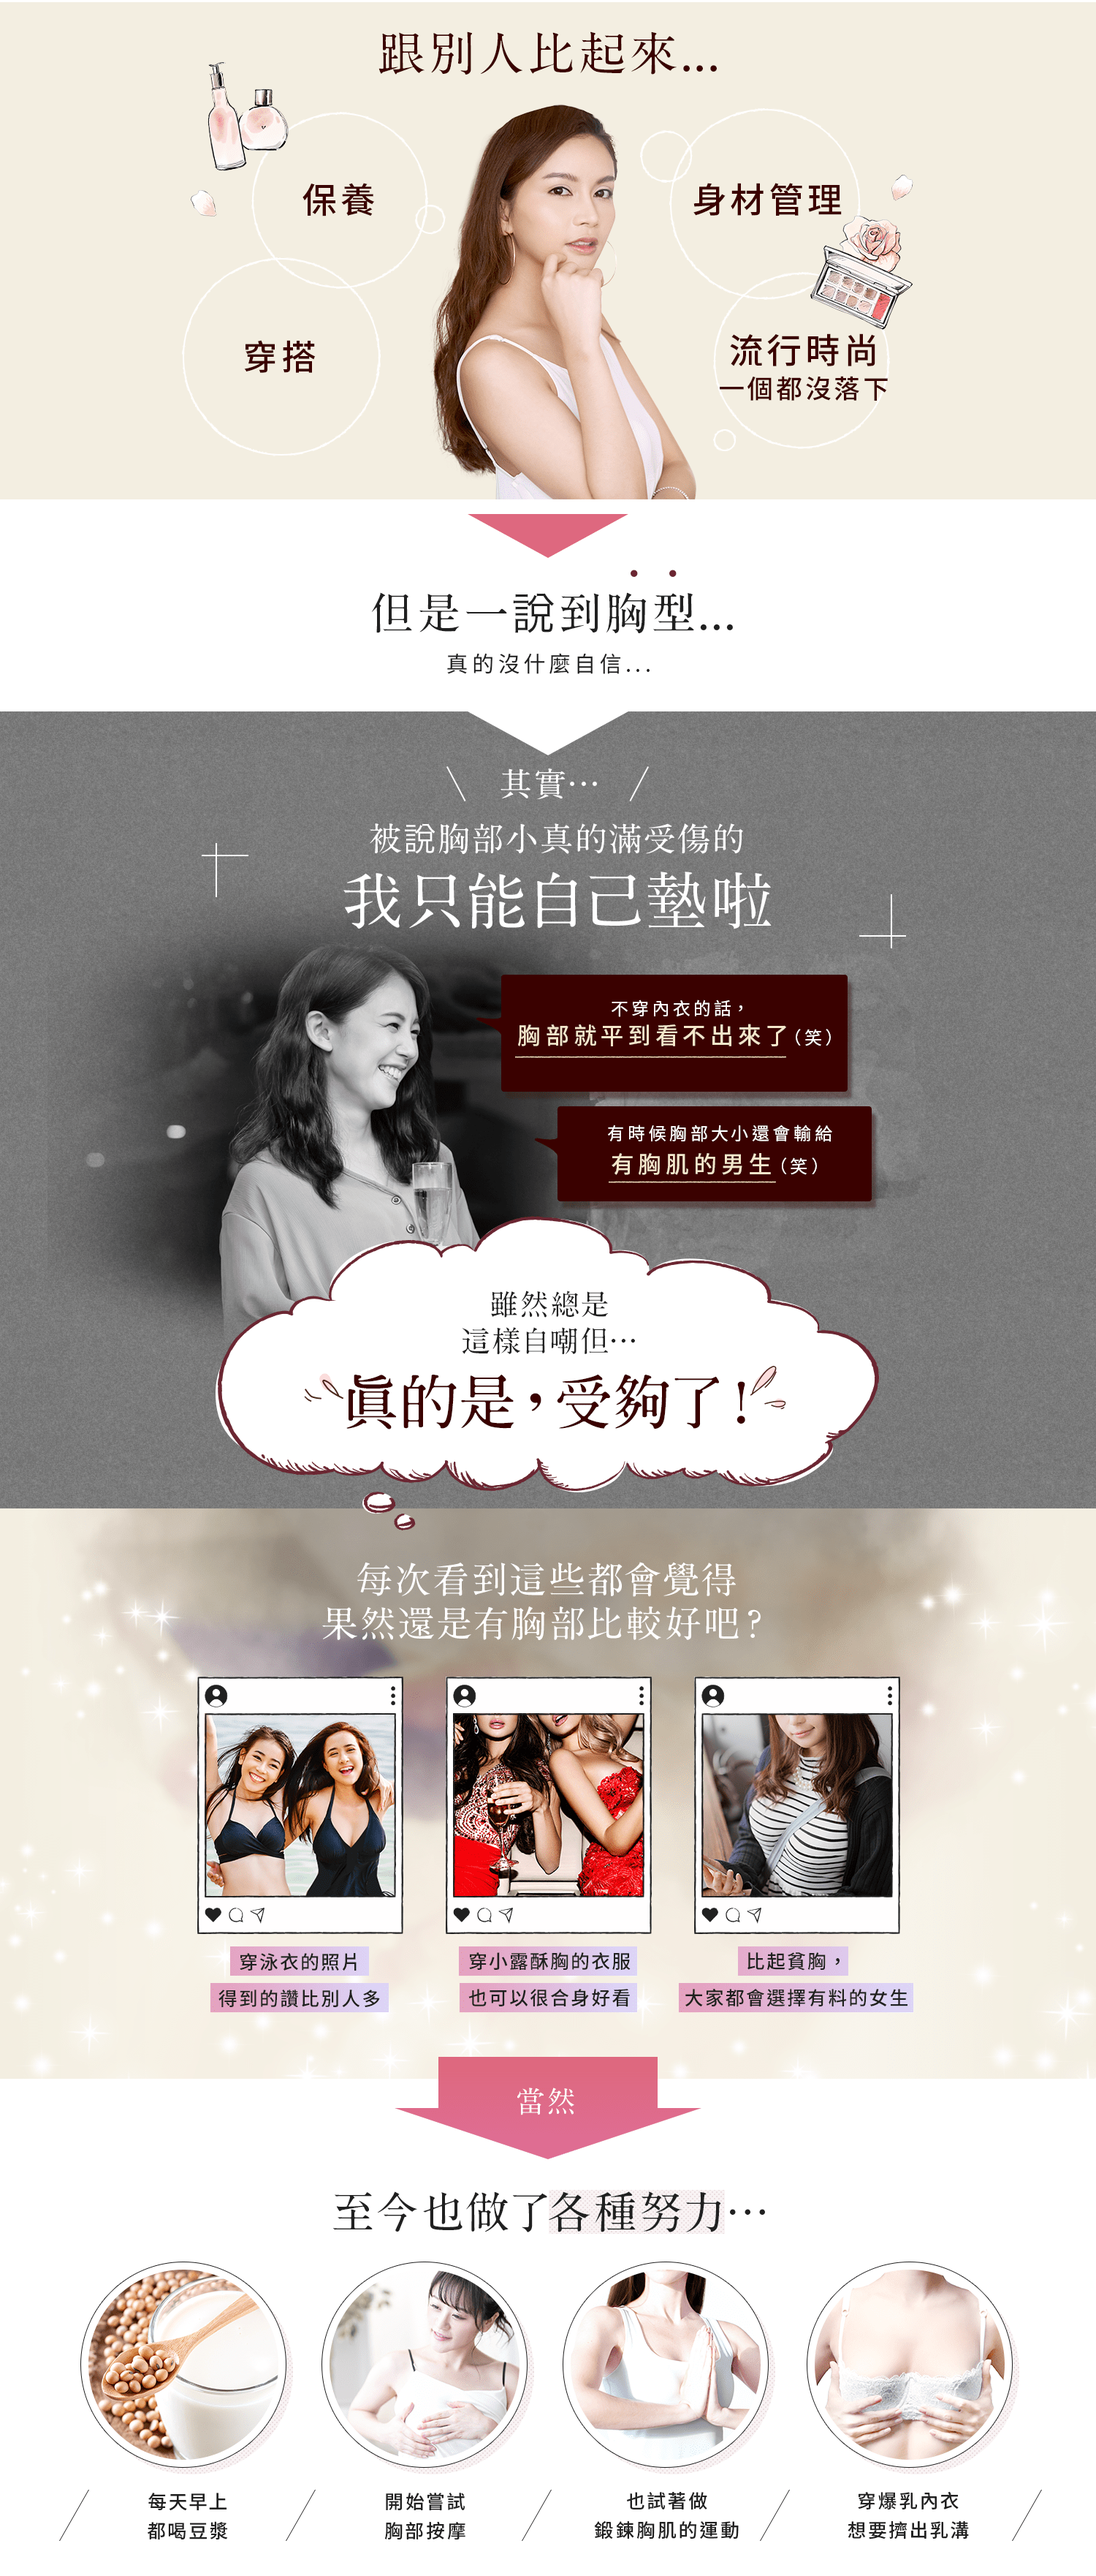
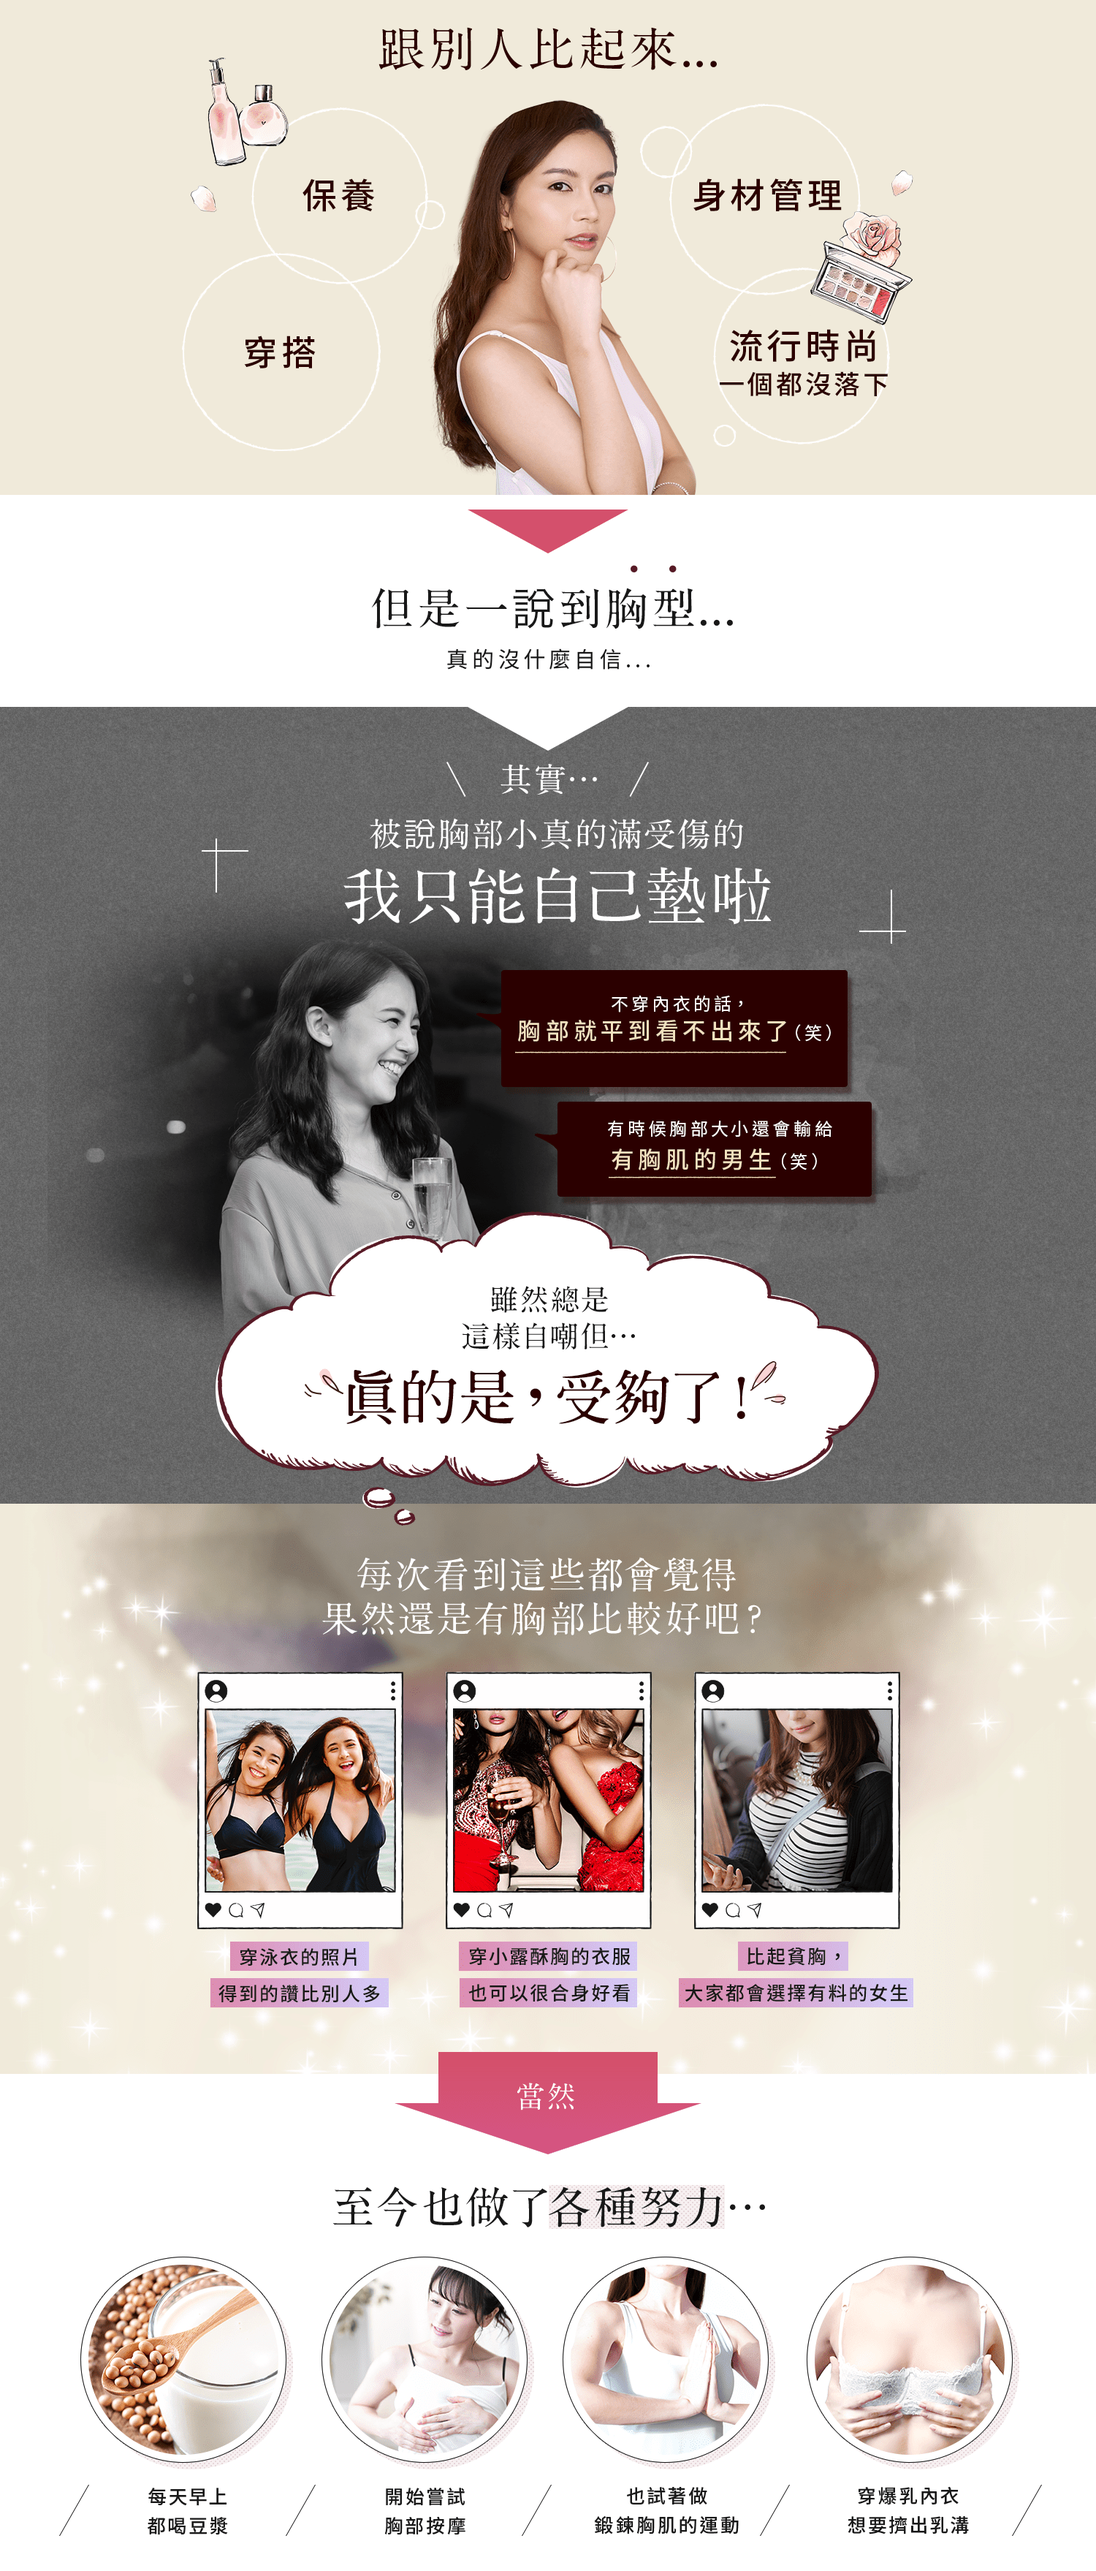
20210106_offer update

diff --git a/css/style.css b/css/style.css
@@ -33,7 +33,7 @@ html,body {
     width:884px;
     position: absolute;
     right: 7.5%;
-    top: 25%;
+    top: 24.5%;
 }
 .PC .set4_btn:hover{
     opacity: 0.8;
@@ -42,7 +42,7 @@ html,body {
     width:884px;
     position: absolute;
     right: 7.5%;
-    top: 52%;
+    top: 51.5%;
 }
 .PC .set5_btn:hover{
     opacity: 0.8;
